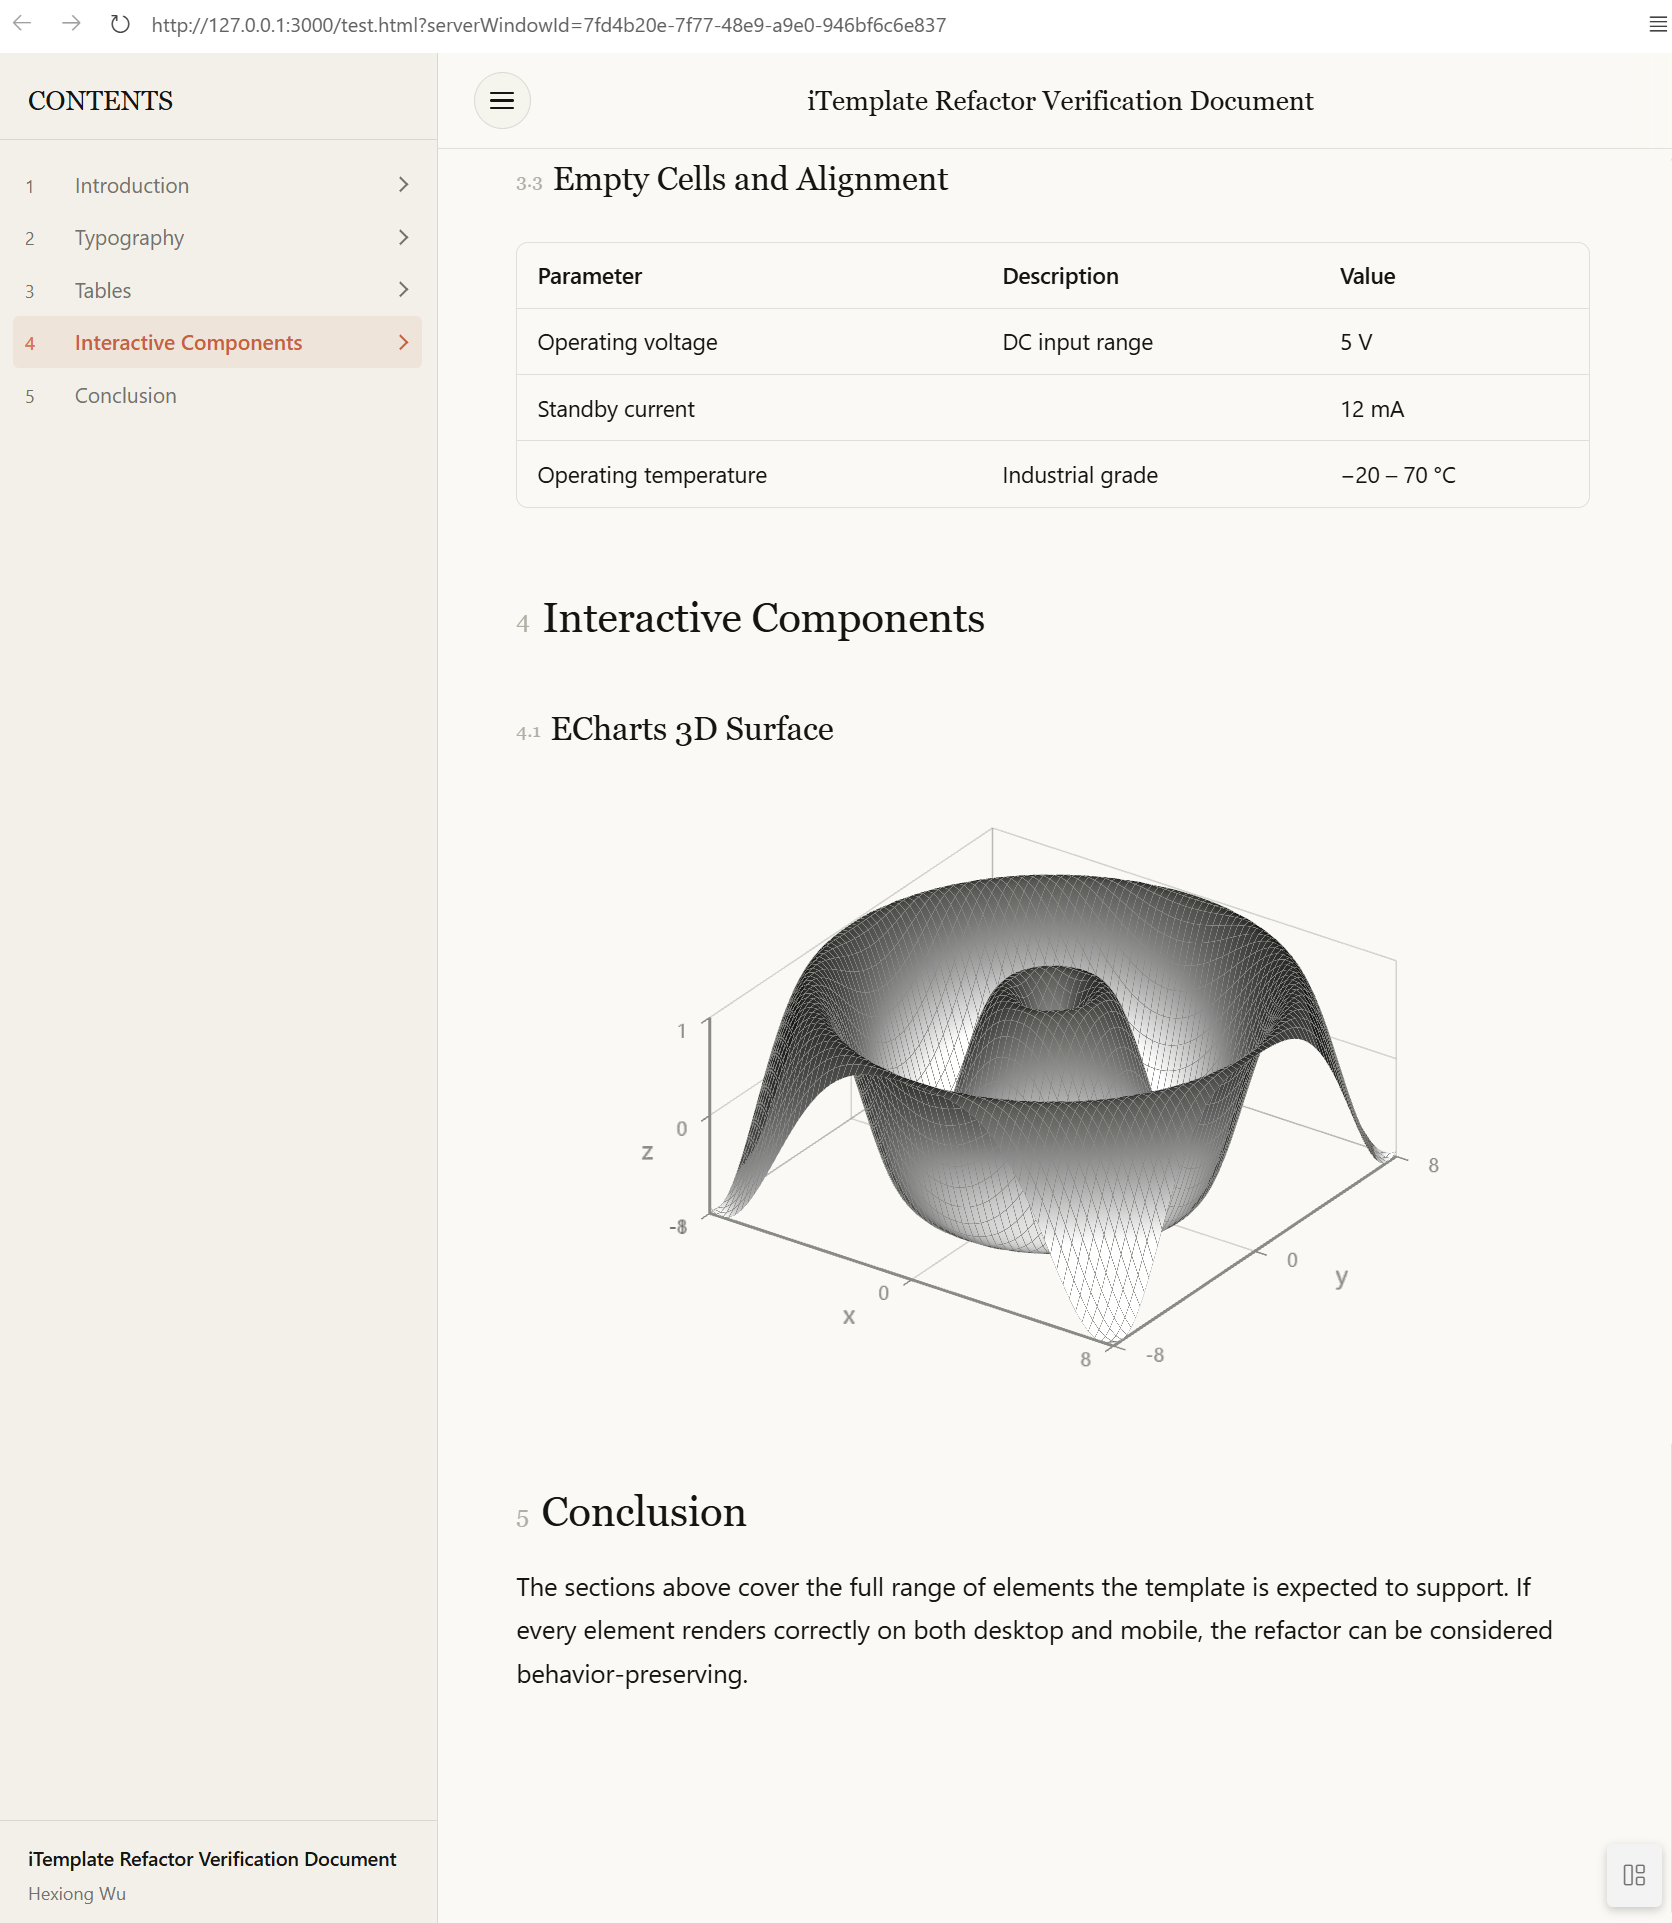
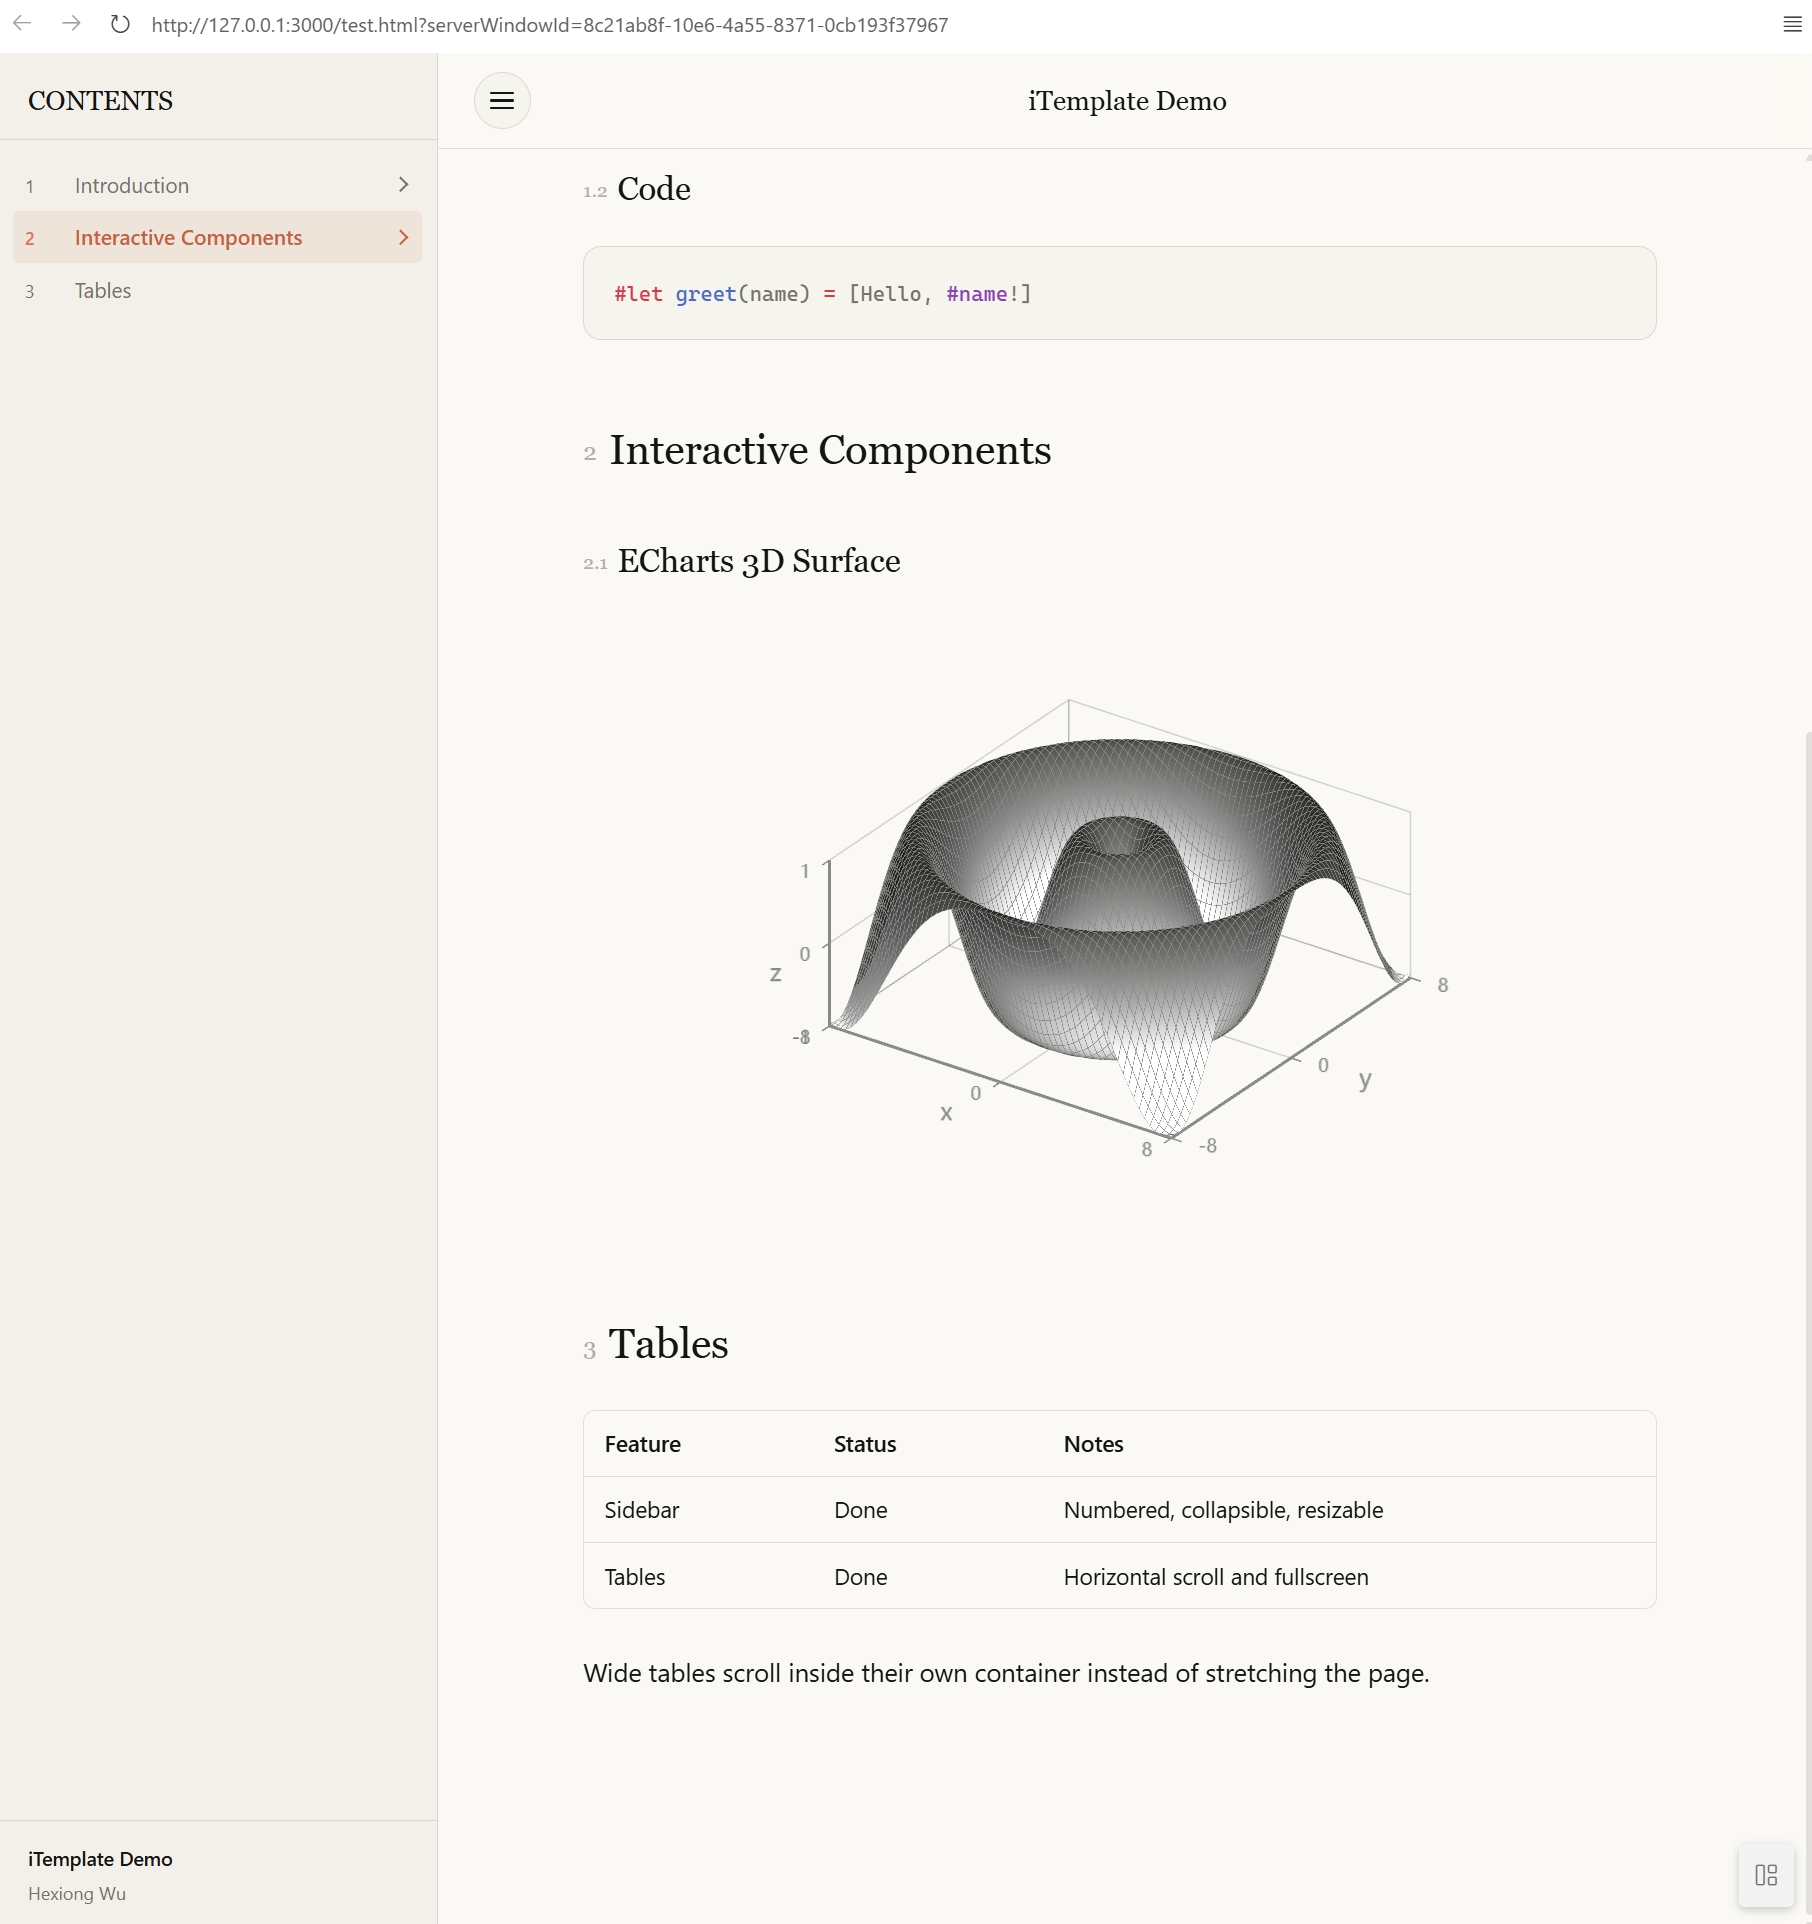
docs: update README with new features and usage examples
add details about numbered collapsible sidebar TOC, horizontal scroll tables, fullscreen table view, light/dark themes, and ECharts/Plotly import map. update demo content, code examples, and theme configuration. also add demo screenshot and clarify notes about WebGL requirement for charts and Typst HTML export limitations.

diff --git a/README.md b/README.md
@@ -1,132 +1,138 @@
 # itemplate
 
-`itemplate` turns Typst markup into a documentation site with a modern academic look. It exports a single HTML file containing a fixed top bar, a numbered and collapsible table of contents, and a responsive article column.
+`itemplate` turns Typst markup into a documentation site with a modern academic look: a numbered, collapsible sidebar table of contents, a responsive article column, horizontally scrolling tables with a fullscreen view, light and dark themes, and a built-in import map for `echarts`, `echarts-gl`, and `plotly`.
 
-The warm paper palette, serif headings, hairline rules, and single terracotta accent are adapted from the [Claudette Typora theme](https://github.com/CookPiu/typora-theme-claudette) by CookPiu (MIT).
-
-## Features
-
-- **Numbered sidebar TOC** generated at compile time from `heading`, with nested levels, per-section collapse, and scroll-spy highlighting.
-- **Responsive app shell** built on `100dvh` and safe-area insets, so browser toolbars and notches are handled correctly.
-- **Mobile drawer** with edge-swipe to open and swipe-left to close, plus an overlay, focus management, and `inert` support.
-- **Wide tables** scroll horizontally inside their own container with hidden scrollbars, a soft edge fade, and a fullscreen button on touch layouts. Fullscreen uses the Fullscreen API with a CSS-rotate fallback for iOS.
-- **Light and dark themes** driven by `prefers-color-scheme`, using the Claudette warm paper palette, a terracotta accent, and serif headings.
-- **Interactive charts** via the built-in import map for `echarts`, `echarts-gl`, and `plotly`.
-- **Desktop sidebar resizing** by dragging the divider; width and open state persist in `localStorage`.
-- **Print styles**, reduced-motion support, and keyboard-accessible controls.
+The palette, serif headings, hairline rules, and terracotta accent are adapted from the [Claudette Typora theme](https://github.com/CookPiu/typora-theme-claudette) by CookPiu (MIT).
 
 ## Usage
 
-```typst
+````typst
 #import "@preview/itemplate:0.8.0": *
 
 #show: itemplate.with(
-  doc-title: "My Document",
-  doc-author: "Author Name",
+  doc-title: "iTemplate Demo",
+  doc-author: "Hexiong Wu",
   lang: "en",
 )
 
 = Introduction
 
-#lorem(40)
+iTemplate turns Typst markup into a documentation site with a numbered sidebar table of contents, a responsive article column, and light and dark themes.
 
-== Background
+== Text
 
-#lorem(40)
-```
+*Bold*, _italic_, `inline code`, and an #link("https://typst.app")[external link]. Inline math such as $e^(i pi) + 1 = 0$ uses the configured math font.
 
-`doc-title` is shown in the top bar and in the sidebar footer. `doc-author` is optional.
+- First item
+- Second item
+  - Nested item
 
-## Theme
+#quote(block: true)[Block quotes use a terracotta rule and a serif face.]
 
-All design tokens can be overridden. Values may be Typst colors or raw CSS color strings.
+== Code
 
 ```typst
-#show: itemplate.with(
-  doc-title: "My Document",
-  theme: (
-    accent: "#d97757",
-    bg: "#faf9f5",
-  ),
-  dark-theme: (
-    accent: "#d97757",
-  ),
-)
+#let greet(name) = [Hello, #name!]
 ```
 
-The full token list lives in `default-theme` at the top of `lib.typ`: `bg`, `surface`, `surface-strong`, `ink`, `ink-muted`, `ink-faint`, `line`, `line-strong`, `accent`, `accent-soft`, `accent-ink`, `sidebar-bg`, `header-bg`, `code-bg`, `selection`, `overlay`, `font-ui`, `font-serif`, `font-mono`, `font-math`.
+= Interactive Components
 
-## Interactive charts
+== ECharts 3D Surface
 
-The generated HTML includes an import map for `echarts` and `echarts-gl`, so a `type: "module"` script can import them with bare specifiers — no extra CDN `<script>` tags are needed.
-
-`echarts-gl` is a UMD bundle that reads the main library from `window.echarts`; assign it before the dynamic import. The example below renders a 3D surface with a greys color scale:
-
-````typst
 #context if (target() == "html") {
   html.elem("div", attrs: (
     id: "echarts-surface",
-    style: "width: 100%; height: 420px;",
+    style: "width: 100%; height: 420px; margin-top: 12px;",
   ))[]
 
   html.script(
     type: "module",
     ```js
     import * as echarts from "echarts";
-    // echarts-gl 的 UMD 构建从 window.echarts 读取主库
+    // The UMD build of echarts-gl reads the main library from window.echarts
     window.echarts = echarts;
     await import("echarts-gl");
 
-    const range = 8;
-    const step = 0.25;
-    const data = [];
-    for (let x = -range; x <= range + 1e-6; x += step) {
-      for (let y = -range; y <= range + 1e-6; y += step) {
-        data.push([x, y, Math.sin(Math.sqrt(x * x + y * y))]);
+    const el = document.getElementById("echarts-surface");
+    if (el) {
+      const range = 8;
+      const step = 0.25;
+      const data = [];
+      for (let x = -range; x <= range + 1e-6; x += step) {
+        for (let y = -range; y <= range + 1e-6; y += step) {
+          data.push([x, y, Math.sin(Math.sqrt(x * x + y * y))]);
+        }
       }
+
+      const ink = "#8a8a86";
+      const axis = {
+        axisLabel: { color: ink },
+        axisLine: { lineStyle: { color: ink } },
+        splitLine: { lineStyle: { color: ink, opacity: 0.35 } },
+        nameTextStyle: { color: ink },
+      };
+
+      const chart = echarts.init(el);
+      chart.setOption({
+        tooltip: { show: false },
+        visualMap: {
+          show: false,
+          dimension: 2,
+          min: -1,
+          max: 1,
+          inRange: { color: ["#f2f2f2", "#bdbdbd", "#737373", "#3b3b39"] },
+        },
+        xAxis3D: { type: "value", name: "x", min: -range, max: range, interval: range, ...axis },
+        yAxis3D: { type: "value", name: "y", min: -range, max: range, interval: range, ...axis },
+        zAxis3D: { type: "value", name: "z", min: -1, max: 1, interval: 1, ...axis },
+        grid3D: {
+          boxWidth: 100,
+          boxDepth: 100,
+          boxHeight: 45,
+          viewControl: { projection: "orthographic", distance: 190, alpha: 28, beta: 35 },
+          light: { main: { intensity: 1.15 }, ambient: { intensity: 0.35 } },
+          axisPointer: { show: false },
+        },
+        series: [{
+          type: "surface",
+          data,
+          wireframe: { show: true, lineStyle: { color: ink, width: 0.5 } },
+        }],
+      });
+      window.addEventListener("resize", () => chart.resize());
     }
-
-    const ink = "#8a8a86";
-    const axis = {
-      axisLabel: { color: ink },
-      axisLine: { lineStyle: { color: ink } },
-      splitLine: { lineStyle: { color: ink, opacity: 0.35 } },
-      nameTextStyle: { color: ink },
-    };
-
-    const chart = echarts.init(document.getElementById("echarts-surface"));
-    chart.setOption({
-      tooltip: {},
-      visualMap: {
-        show: false,
-        dimension: 2,
-        min: -1,
-        max: 1,
-        inRange: { color: ["#f2f2f2", "#bdbdbd", "#737373", "#3b3b39"] },
-      },
-      xAxis3D: { type: "value", name: "x", min: -range, max: range, interval: range, ...axis },
-      yAxis3D: { type: "value", name: "y", min: -range, max: range, interval: range, ...axis },
-      zAxis3D: { type: "value", name: "z", min: -1, max: 1, interval: 1, ...axis },
-      grid3D: {
-        boxWidth: 100,
-        boxDepth: 100,
-        boxHeight: 45,
-        viewControl: { projection: "orthographic", distance: 190, alpha: 28, beta: 35 },
-        light: { main: { intensity: 1.15 }, ambient: { intensity: 0.35 } },
-      },
-      series: [{
-        type: "surface",
-        data,
-        wireframe: { show: true, lineStyle: { color: ink, width: 0.5 } },
-      }],
-    });
-    window.addEventListener("resize", () => chart.resize());
     ```.text,
   )
 }
+
+= Tables
+
+#table(
+  columns: 3,
+  [*Feature*], [*Status*], [*Notes*],
+  [Sidebar], [Done], [Numbered, collapsible, resizable],
+  [Tables], [Done], [Horizontal scroll and fullscreen],
+)
+
+Wide tables scroll inside their own container instead of stretching the page.
 ````
 
-The chart needs WebGL. If the document is exported to PDF or opened without JavaScript, the container simply stays blank, so put the chart in a section that reads fine without it.
+`doc-title` is shown in the top bar and sidebar footer; `doc-author` is optional.
+
+The ECharts surface needs WebGL. Without JavaScript the container stays blank, so place charts in sections that read fine without them.
+
+## Theme
+
+Override any token; values may be Typst colors or raw CSS color strings.
+
+```typst
+#show: itemplate.with(
+  theme: (accent: "#d97757", bg: "#faf9f5"),
+  dark-theme: (accent: "#d97757"),
+)
+```
+
+Available tokens: `bg`, `surface`, `surface-strong`, `ink`, `ink-muted`, `ink-faint`, `line`, `line-strong`, `accent`, `accent-soft`, `accent-ink`, `sidebar-bg`, `header-bg`, `code-bg`, `selection`, `overlay`, `font-ui`, `font-serif`, `font-mono`, `font-math` (defaults in `lib.typ`).
 
 ## Compile
 
@@ -134,10 +140,6 @@ The chart needs WebGL. If the document is exported to PDF or opened without Java
 typst compile test.typ --features html --format html
 ```
 
-The HTML export of Typst is still under active development, so the emitted markup may change between Typst releases. `bundle` export is not supported by this template; a PDF target renders the body without the HTML shell.
+![iTemplate demo page in light theme: a numbered sidebar table of contents, a Typst code sample, an interactive ECharts 3D surface chart, and a table](assets/test.png)
 
-Math rendering loads the Latin Modern web fonts from `fred-wang.github.io`. The import map is optional — remove entries you do not need.
-
-## Examples
-
-`test.typ` exercises headings of every level, wide and regular tables, code, math, figures, lists, and an interactive ECharts 3D surface. Open the generated `test.html` in a browser to inspect the layout.
+HTML export is under active development, so the emitted markup may change between Typst releases. `bundle` export is unsupported; a PDF target renders the body without the HTML shell. Math fonts load from `fred-wang.github.io`, and unused import-map entries can be removed.
